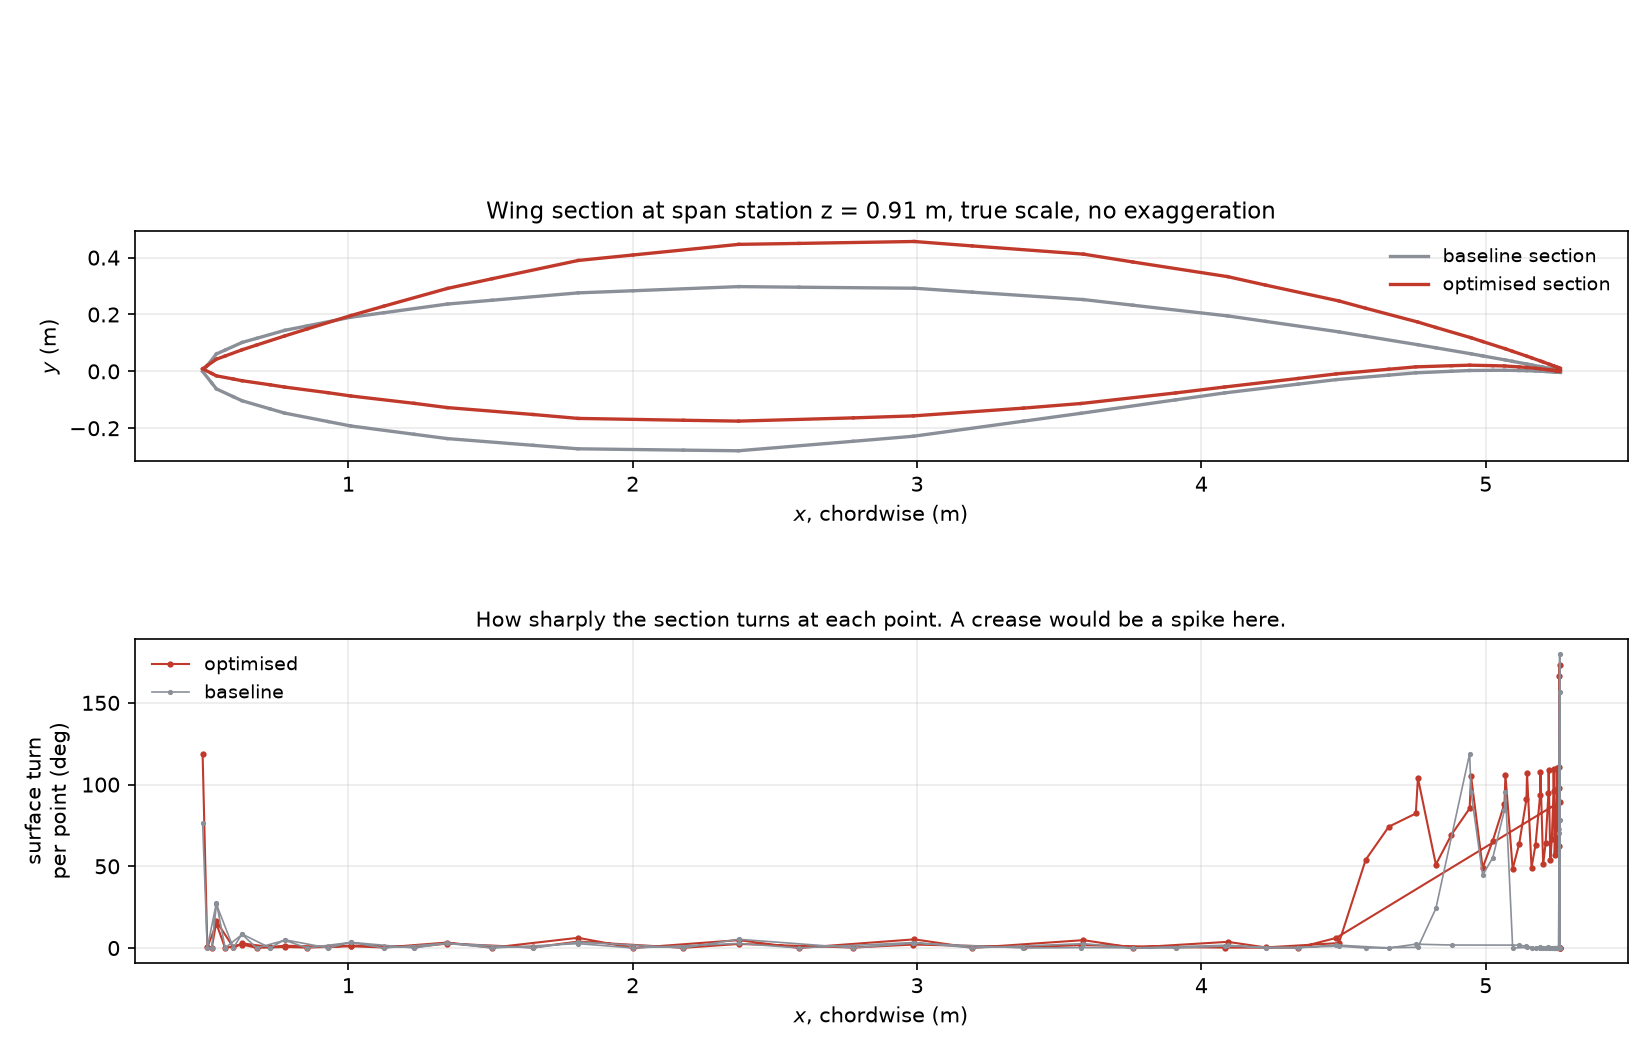
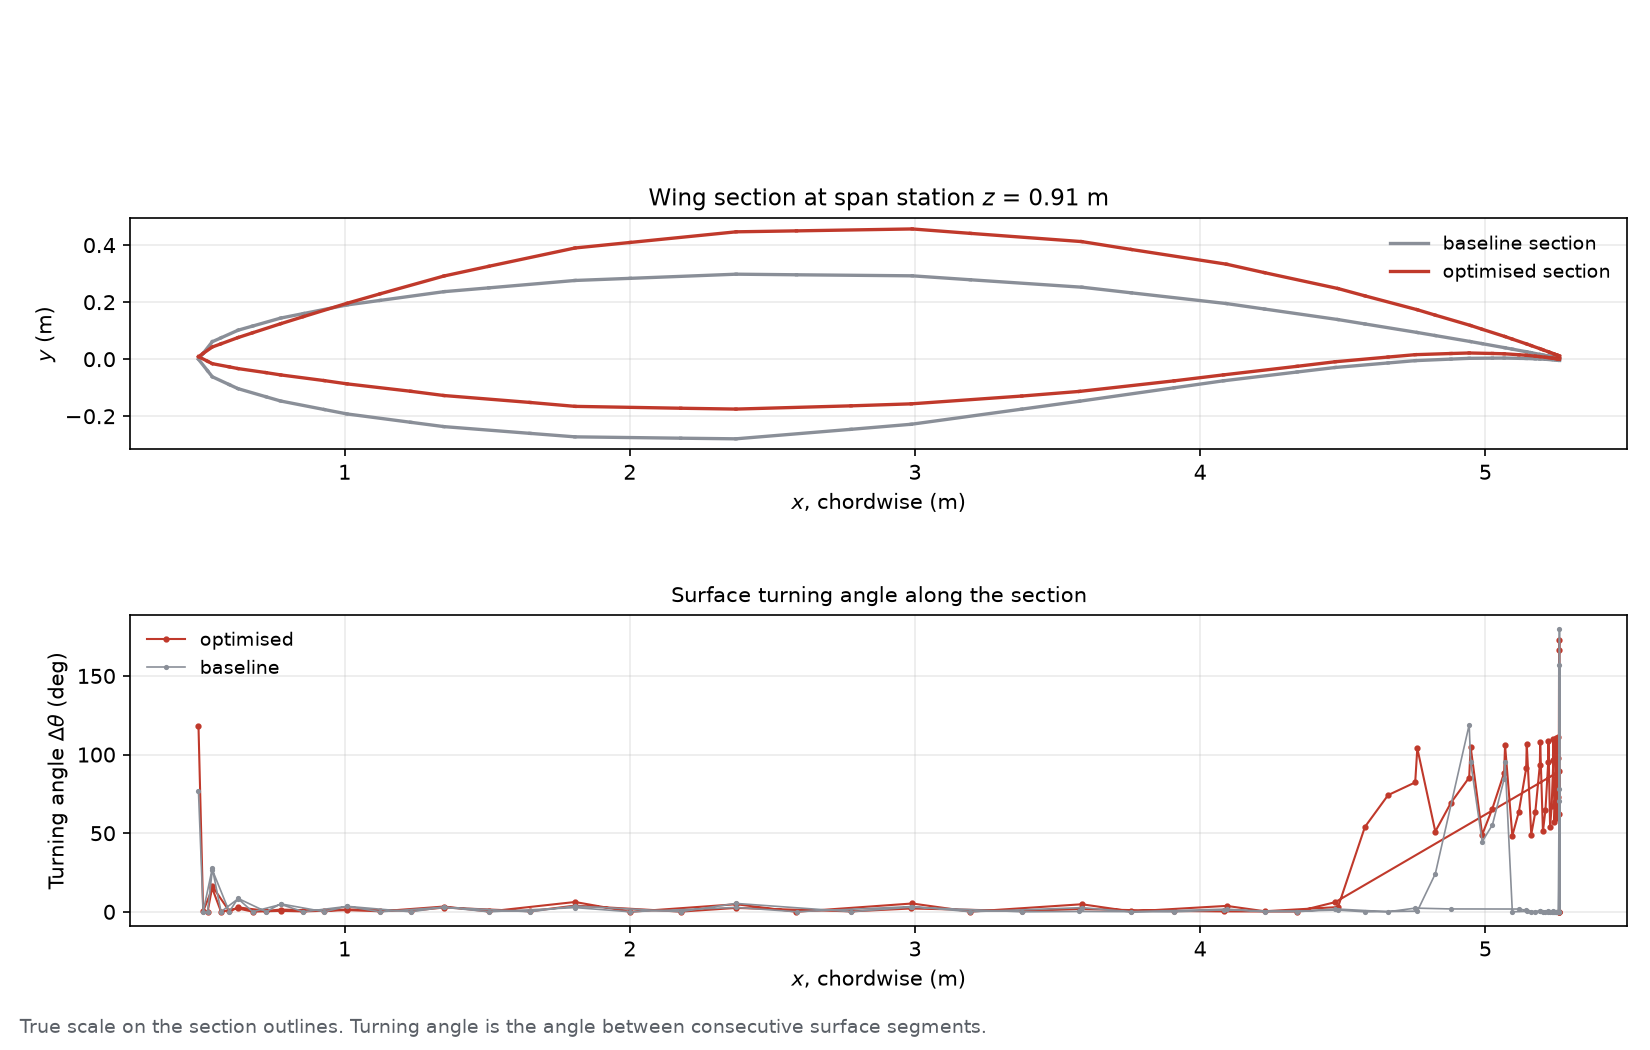
dafoam ACT D'S THIRD FIGURE BROKE THE FIGURE STANDARD IT PREDATES AND NOTHING WAS CHECKING IT -- THE GUARD WAS ON TWO OF THREE CALL SITES, WHICH IS RULE 14 EXACTLY, AND THE MEASUREMENT IS BIT-IDENTICAL AFTER THE REPAIR
WHAT WAS WRONG, MEASURED AGAINST THE 03:10Z STANDARD

actD_crease_section.png was built at 01:47Z and the figure standard landed at
03:10Z, so it predates it and broke it in three places. Upper title eleven
words against a ten-word limit. Lower title a two-sentence paragraph whose
second sentence ("A crease would be a spike here") was meta-commentary about
how to read the picture, which the standard moves off the image. One axis
label, the turning angle, carried no symbol at all while every other label in
this act was already latexified.

WHY IT SURVIVED: THE GUARD EXISTED AND WAS NOT ON THIS PATH

_a2_shape.check_figure_text enforces the ten-word title and twenty-word
caption limits, and the act's other two figures go through it inside their
builders. The crease figure is built by a different module and reached the
act's figure list unchecked. A limit applied at two of three call sites is not
applied. That is CLAUDE.md rule 14 in its own words, and the fix is at the
call site, not in a comment.

WHAT LANDS

cases/dafoam/ladder-a/geometry_audit/crease_verdict.py -- both titles inside
ten words, z latexified in the section title, the turning-angle axis relabelled
with its symbol, and one caption line at the foot of the image where the
standard puts it. Both titles and the caption pass through check_figure_text,
so a title that grows back fails on a drive.

sdk/workflows/adjoint_act.py -- ALL THREE of the act's figures now built by one
[…]

diff --git a/cases/dafoam/ladder-a/geometry_audit/crease_verdict.py b/cases/dafoam/ladder-a/geometry_audit/crease_verdict.py
@@ -341,6 +341,28 @@ def turning(segs):
     return out
 
 
+# FIGURE STANDARD (owner directive, 2026-09-01 03:10Z), applied here because
+# this image predates it and broke it in three places. Its upper title ran to
+# eleven words, its lower title was a two-sentence paragraph whose second
+# sentence was meta-commentary about how to read the picture, and one axis
+# label carried no symbol. Titles are now at most ten words, every variable is
+# latexified, and the one caption line sits at the foot of the image. The
+# sentence that left the picture is not lost: it is the crease paragraph in
+# the figure-notes band of docs/dafoam/demo/ACT_D_reference_wing_sheet.tex.
+#
+# The limits are ENFORCED, not observed, and by the same guard the act's other
+# two figures use -- a title that grows back fails here rather than on camera.
+_SDK = Path(__file__).resolve().parents[4] / "sdk"
+if str(_SDK) not in sys.path:
+    sys.path.insert(0, str(_SDK))
+from workflows._a2_shape import check_figure_text  # noqa: E402
+
+# The caption is figure-wide, so it says which panel the true-scale claim is
+# about. Equal aspect holds on the outlines and cannot hold on an angle plot.
+CREASE_CAPTION = ("True scale on the section outlines. Turning angle is the "
+                  "angle between consecutive surface segments.")
+
+
 def figure(station, doc, base, final, tris):
     try:
         import matplotlib
@@ -351,6 +373,10 @@ def figure(station, doc, base, final, tris):
         return None
     OUT.mkdir(parents=True, exist_ok=True)
     out = OUT / "actD_crease_section.png"
+    section_title, caption = check_figure_text(
+        f"Wing section at span station $z$ = {station:g} m", CREASE_CAPTION)
+    turn_title, _ = check_figure_text(
+        "Surface turning angle along the section", "")
     fig, (ax, ax2) = plt.subplots(2, 1, figsize=(11.0, 7.0), dpi=150,
                                   gridspec_kw={"height_ratios": [2, 1]})
     for verts, col, lab in ((base, "#8a8f98", "baseline section"),
@@ -362,8 +388,7 @@ def figure(station, doc, base, final, tris):
     ax.set_aspect("equal")
     ax.set_xlabel(r"$x$, chordwise (m)")
     ax.set_ylabel(r"$y$ (m)")
-    ax.set_title(f"Wing section at span station z = {station:g} m, true "
-                 f"scale, no exaggeration", fontsize=11)
+    ax.set_title(section_title, fontsize=11)
     ax.legend(frameon=False, fontsize=9)
     ax.grid(alpha=0.25)
 
@@ -375,12 +400,13 @@ def figure(station, doc, base, final, tris):
     ax2.plot([p[0][0] for p in tb], [p[1] for p in tb], ".-", color="#8a8f98",
              ms=3, lw=0.8, label="baseline")
     ax2.set_xlabel(r"$x$, chordwise (m)")
-    ax2.set_ylabel("surface turn\nper point (deg)")
-    ax2.set_title("How sharply the section turns at each point. A crease "
-                  "would be a spike here.", fontsize=10)
+    ax2.set_ylabel(r"Turning angle $\Delta\theta$ (deg)")
+    ax2.set_title(turn_title, fontsize=10)
     ax2.legend(frameon=False, fontsize=9)
     ax2.grid(alpha=0.25)
-    fig.tight_layout()
+    fig.tight_layout(rect=(0, 0.035, 1, 1))
+    fig.text(0.012, 0.012, caption, color="#5a5f66", fontsize=9, ha="left",
+             va="bottom")
     fig.savefig(out)
     plt.close(fig)
     tt = sorted(p[1] for p in t)

diff --git a/sdk/workflows/adjoint_act.py b/sdk/workflows/adjoint_act.py
@@ -639,18 +639,28 @@ class AdjointWingAct(DemoAct):
                      f"{decomp['total_reduction_pct']:.2f}% net"],
                 ], table_id="actd_decomposition"))
 
+        # EVERY FIGURE THIS ACT PUBLISHES IS CHECKED AT THIS CALL SITE, not
+        # only inside the two builders that happen to check themselves. A
+        # limit applied at one of three call sites is not applied: the crease
+        # figure reached this list unchecked and its own titles had grown past
+        # the standard. `_figure` refuses a title over ten words or a caption
+        # over twenty before the payload is built, so the failure lands on a
+        # drive rather than on a screen.
+        def _figure(path, title, caption):
+            title, caption = _a2_shape.check_figure_text(title, caption)
+            return Figure(path, title, caption, "results")
+
         plots = [
-            Figure(FIGURES / "a2_sections_5station.png",
-                   _a2_shape.SECTION_TITLE, _a2_shape.SECTION_CAPTION,
-                   "results"),
-            Figure(FIGURES / "a2_twist.png", _a2_shape.TWIST_TITLE,
-                   _a2_shape.TWIST_CAPTION, "results"),
+            _figure(FIGURES / "a2_sections_5station.png",
+                    _a2_shape.SECTION_TITLE, _a2_shape.SECTION_CAPTION),
+            _figure(FIGURES / "a2_twist.png", _a2_shape.TWIST_TITLE,
+                    _a2_shape.TWIST_CAPTION),
         ]
         fields = [
-            Figure(FIGURES / "actD_crease_section.png",
-                   "Section at the colour boundary on the wing",
-                   "The nose closes against the baseline across the first "
-                   "twentieth of the chord.", "results"),
+            _figure(FIGURES / "actD_crease_section.png",
+                    "Section at the colour boundary on the wing",
+                    "The nose closes against the baseline across the first "
+                    "twentieth of the chord."),
         ]
 
         verification = [

diff --git a/docs/dafoam/demo/ACT_D_reference_wing_sheet.tex b/docs/dafoam/demo/ACT_D_reference_wing_sheet.tex
@@ -477,6 +477,14 @@ millimetres throughout.\\[2pt]
 is the worst derivative group's disagreement with a central finite difference.
 That is a gradient accuracy figure, not a discretisation error bar, and no
 discretisation bar exists for one mesh.
+\end{minipage}\hfill
+\begin{minipage}[t]{0.487\textwidth}
+\textbf{Section at the colour boundary.} Two panels on one span station: the
+outlines at true scale, and the angle the surface turns at each point along
+them. A crease shows as a spike in the lower panel, and the interior carries
+none, on the colour boundary or away from it. The nose is a separate matter,
+measured on its own terms: the finished leading edge is sharper than the
+baseline's at every station.
 \end{minipage}}
 
 % ------------------------------------------------------------- voices -------
